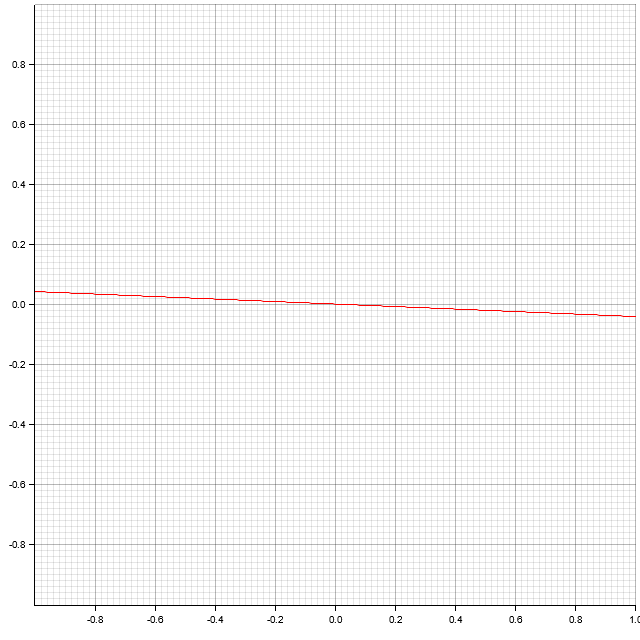
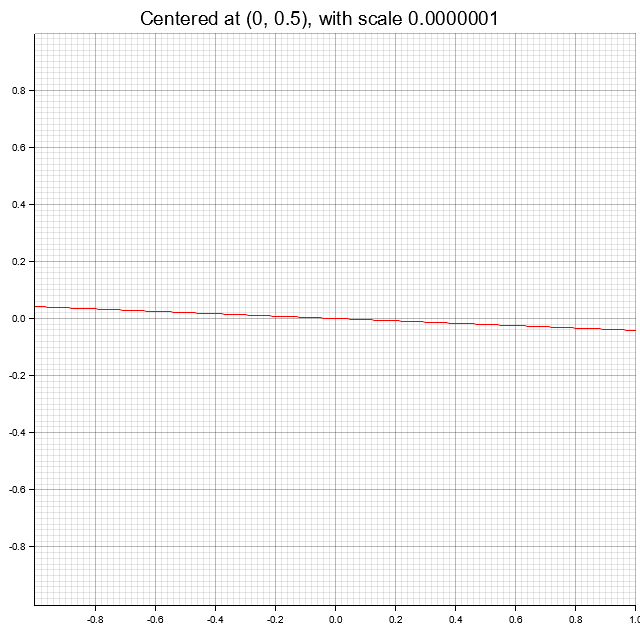
Clean up stumpff binary a bit

Changed region(s): [[0.0, 0.0, 1.0, 0.7188], [0.0, 0.75, 1.0, 0.9062]]

diff --git a/src/bin/stumpff.rs b/src/bin/stumpff.rs
@@ -2,93 +2,101 @@ use plotters::prelude::*;
 use rust_ksp::math::stumpff::{c0, c1, c2, c3};
 
 pub fn main() {
-    let scale = 1e-7;
     draw_plot(
         "plots/c2-naive.png",
-        |x| (naive_c2(x * scale) - 0.5) / scale,
+        |x| naive_stumpff(2, x),
         200,
-    )
-    .unwrap();
-    draw_plot("plots/c2.png", |x| (c2(x * scale) - 0.5) / scale, 200).unwrap();
+        (0.0, 0.5),
+        1e-7,
+    );
+    draw_plot("plots/c2.png", c2, 200, (0.0, 0.5), 1e-7);
 
-    let scale = 1e-7;
-    let sixth = 1.0 / 6.0;
     draw_plot(
         "plots/c3-naive.png",
-        |x| (naive_c3(x * scale) - sixth) / scale,
+        |x| naive_stumpff(3, x),
         200,
-    )
-    .unwrap();
-    draw_plot("plots/c3.png", |x| (c3(x * scale) - sixth) / scale, 200).unwrap();
+        (0.0, 1.0 / 6.0),
+        1e-7,
+    );
+
+    draw_plot("plots/c3.png", c3, 200, (0.0, 1.0 / 6.0), 1e-7);
 
     // Print some useful coefficients
     println!("Computing c3; use this in your code");
-    generate_stumpff_coefficients(3, naive_c3(1.0));
+    generate_stumpff_coefficients(3, naive_stumpff(3, 1.0));
     println!(
         "Computing c4 and c5; check this against NASA values: {}",
         "https://ntrs.nasa.gov/api/citations/19670018315/downloads/19670018315.pdf"
     );
-    generate_stumpff_coefficients(4, naive_c4(1.0));
-    generate_stumpff_coefficients(5, naive_c5(1.0));
+    generate_stumpff_coefficients(4, naive_stumpff(4, 1.0));
+    generate_stumpff_coefficients(5, naive_stumpff(5, 1.0));
 }
 
-// TODO: y-axis shows up centered at 0.0 even when it's not centered there. fix that.
+/// Draw a plot of the given function, on the specified domain (center and scale).
+/// Note: because we're working at the limits of f64, but plotter uses f32 to draw,
+/// we have to rescale and recenter the datapoints before passing them to plotter.
+/// This means the "origin" on the graph is not actually the origin.
 fn draw_plot(
     name: &str,
     func: impl Fn(f64) -> f64,
     n_points: usize,
-) -> Result<(), Box<dyn std::error::Error>> {
+    center: (f64, f64),
+    scale: f64,
+) {
     let root = BitMapBackend::new(name, (640, 640)).into_drawing_area();
-    root.fill(&WHITE)?;
+    root.fill(&WHITE).unwrap();
+
     let mut chart = ChartBuilder::on(&root)
+        .caption(
+            format!(
+                "Centered at ({}, {}), with scale {}",
+                center.0, center.1, scale
+            ),
+            ("sans-serif", 24).into_font(),
+        )
         .margin(5)
         .x_label_area_size(30)
         .y_label_area_size(30)
-        .build_cartesian_2d(-1.0f32..1.0f32, -1.0f32..1.0f32)?;
+        .build_cartesian_2d(-1.0f32..1.0f32, -1.0f32..1.0f32)
+        .unwrap();
 
-    chart.configure_mesh().draw()?;
+    chart.configure_mesh().draw().unwrap();
 
-    chart.draw_series(LineSeries::new(
-        (0..=n_points)
-            .map(|i| (2 * i as i32 - n_points as i32) as f64 / (n_points as f64))
-            .map(|x| (x as f32, func(x) as f32)),
-        &RED,
-    ))?;
-
-    Ok(())
+    chart
+        .draw_series(LineSeries::new(
+            (0..=n_points)
+                // Convert to u: [0, 1]
+                .map(|i| i as f64 / n_points as f64)
+                // Convert to actual x coordinates
+                .map(|u| center.0 + (2.0 * u - 1.0) * scale)
+                // Compute points
+                .map(|x| (x, func(x)))
+                // Recenter at the origin because f32 isn't precise enough
+                .map(|(x, y)| ((x - center.0) / scale, (y - center.1) / scale))
+                // Convert to f32 for drawing
+                .map(|(x, y)| (x as f32, y as f32)),
+            &RED,
+        ))
+        .unwrap();
 }
 
-fn naive_c2(x: f64) -> f64 {
-    if x != 0.0 {
-        (1.0 - c0(x)) / x
-    } else {
-        0.5
+fn float_factorial(n: usize) -> f64 {
+    (1..=n).map(|k| k as f64).product()
+}
+
+fn naive_stumpff(n: usize, x: f64) -> f64 {
+    // Avoid dividing by 0 please
+    if x == 0.0 {
+        return 1.0 / float_factorial(n);
+    }
+
+    match n {
+        0 => c0(x),
+        1 => c1(x),
+        n => (float_factorial(n - 2) - naive_stumpff(n - 2, x)) / x,
     }
 }
 
-fn naive_c3(x: f64) -> f64 {
-    if x != 0.0 {
-        (1.0 - c1(x)) / x
-    } else {
-        1.0 / 6.0
-    }
-}
-
-fn naive_c4(x: f64) -> f64 {
-    if x != 0.0 {
-        (0.5 - c2(x)) / x
-    } else {
-        1.0 / 24.0
-    }
-}
-
-fn naive_c5(x: f64) -> f64 {
-    if x != 0.0 {
-        (1.0 / 6.0 - c3(x)) / x
-    } else {
-        1.0 / 120.0
-    }
-}
 /// Prints the coefficients of the kth stumpff function. `bound` is used to estimate
 /// when to stop generating coefficients. Specifically, we should stop when a_k + c_n(X)
 /// is indistinguishable from c_n(X), where X is in our domain of approximation [-1, 1].
